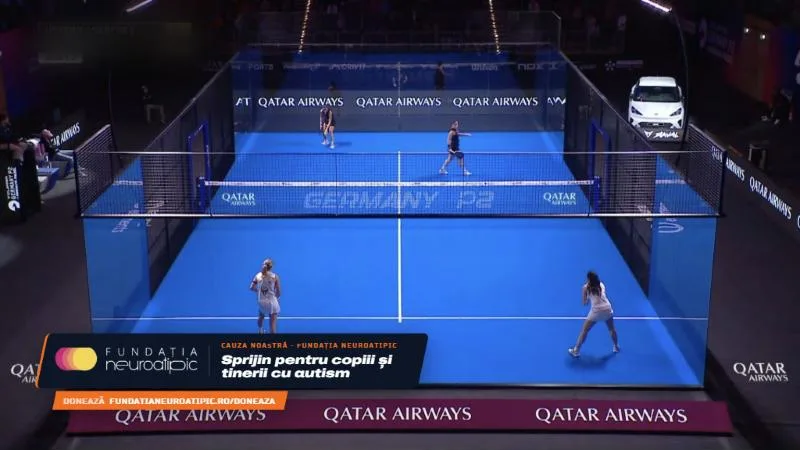
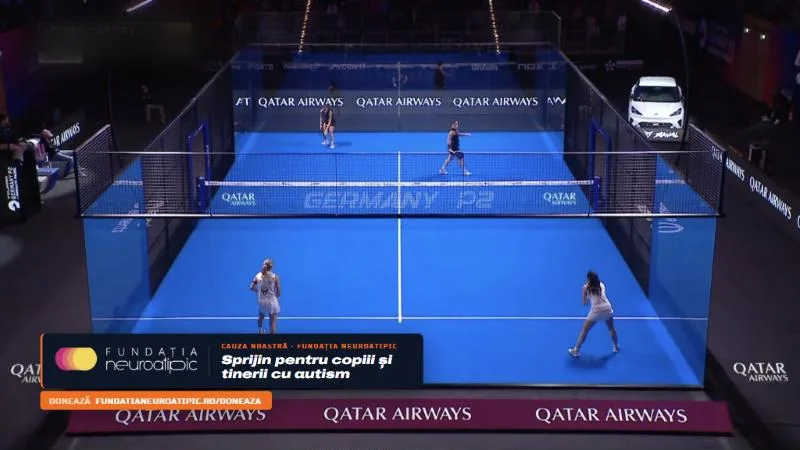
Previzualizări grafice recapturate după update-ul graficelor de show
Claude-Session: https://claude.ai/code/session_01RySot4KeEAZKw5JAdsZ7CL

Changed region(s): [[0.0312, 0.7467, 0.5625, 0.9333], [0.5, 0.8089, 0.5312, 0.8711]]

diff --git a/rundown.html b/rundown.html
@@ -189,7 +189,7 @@
 <script src="https://www.gstatic.com/firebasejs/10.14.1/firebase-firestore-compat.js"></script>
 <script src="https://www.gstatic.com/firebasejs/10.14.1/firebase-storage-compat.js"></script>
 <script src="kairos-audio.js?v=202611101300"></script>
-<script src="kairos-visual.js?v=202611111800"></script>
+<script src="kairos-visual.js?v=202611122030"></script>
 <script src="sync.js?v=202611101300"></script>
 <script src="rundown-data.js?v=202611040403"></script>
 <script src="app.js?v=202611111800"></script>

diff --git a/client.html b/client.html
@@ -117,7 +117,7 @@ summary { cursor:pointer; }
 <script src="https://www.gstatic.com/firebasejs/10.14.1/firebase-auth-compat.js"></script>
 <script src="https://www.gstatic.com/firebasejs/10.14.1/firebase-firestore-compat.js"></script>
 <script src="kairos-audio.js?v=202611101300"></script>
-<script src="kairos-visual.js?v=202611111800"></script>
+<script src="kairos-visual.js?v=202611122030"></script>
 <script src="sync.js?v=202611101300"></script>
 <script src="rundown-data.js?v=202611040403"></script>
 <script>

diff --git a/kairos-visual.js b/kairos-visual.js
@@ -11,7 +11,7 @@
     "eliminatorie": "Faza eliminatorie", "road-to-final": "Road to the final", "brb": "Be right back",
     "campioni": "Campioni", "sponsori": "Sponsori", "thanks": "Thanks for watching",
   };
-  const V = "1";
+  const V = "2";
   const esc = (s) => String(s ?? "").replace(/[&<>"']/g, (c) => ({ "&": "&amp;", "<": "&lt;", ">": "&gt;", '"': "&quot;", "'": "&#39;" }[c]));
   function resolve(v) {
     if (!v) return null;
